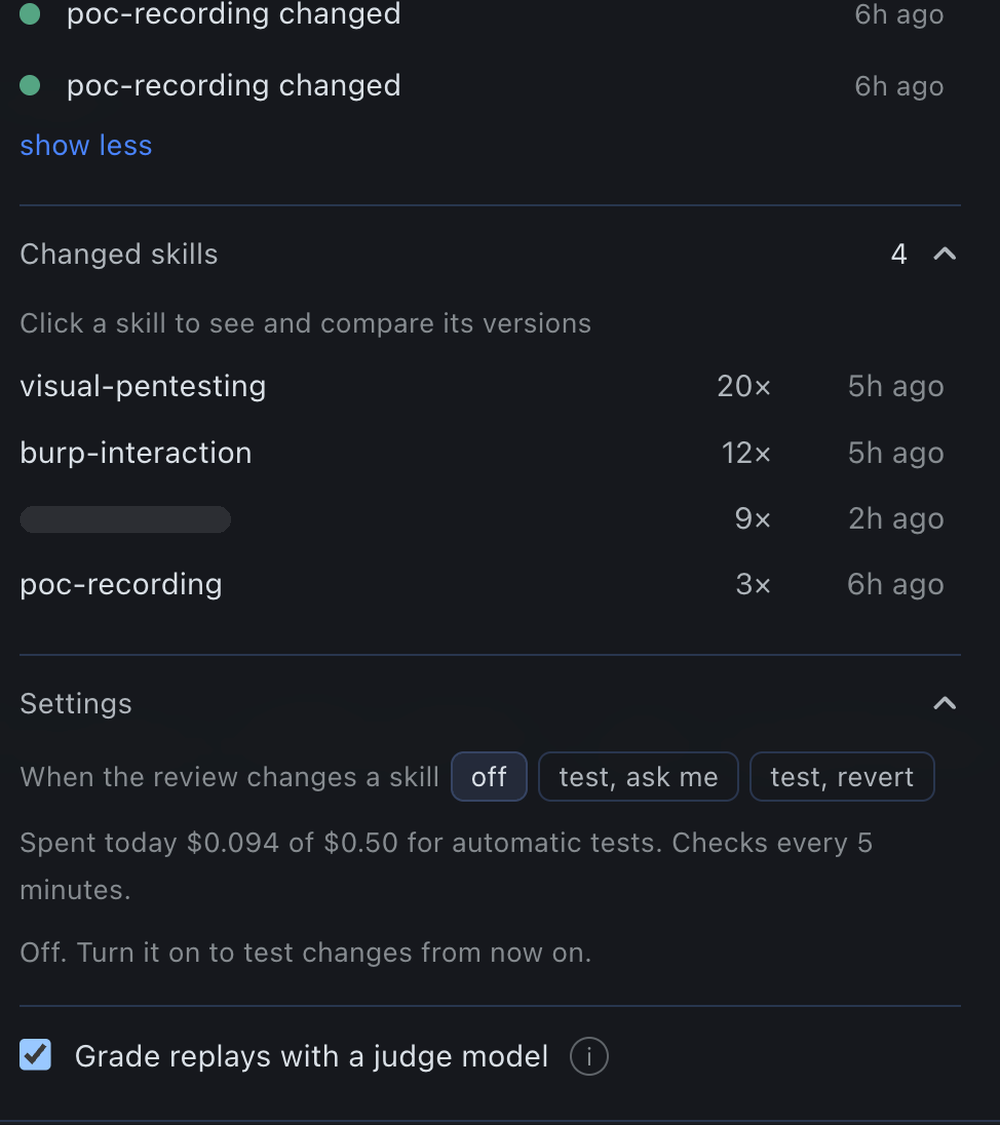
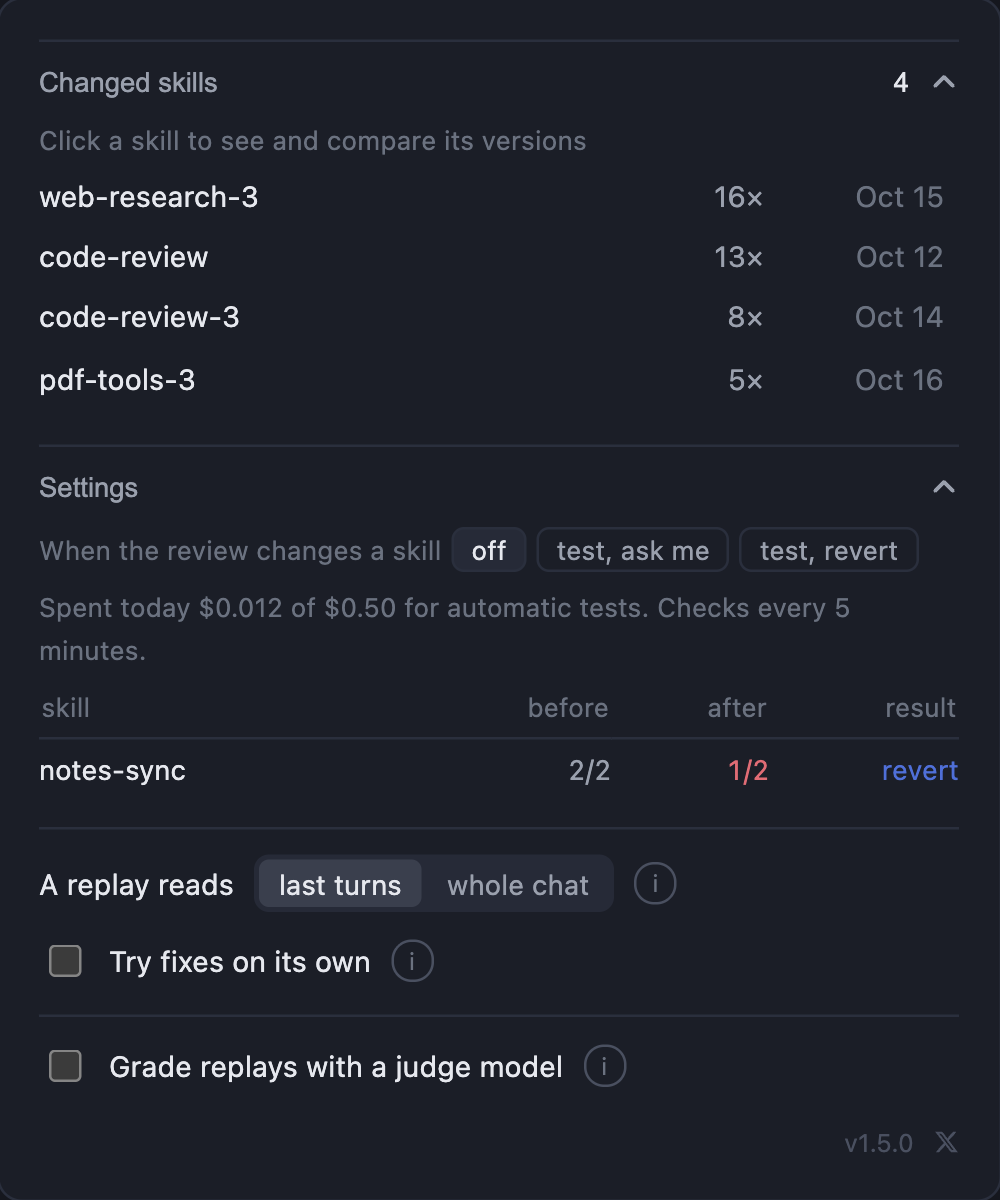
1.5.0

diff --git a/README.md b/README.md
@@ -72,7 +72,9 @@ Evals, model-as-a-judge, and the missing layer for hermes auto-improve (randomly
 - **Cleanup**: archive skills that were never used, saving tokens on every call
 
 <p align="center">
-  <img src="docs/hermetic-aai-settings.png" alt="Changed skills and settings for automatic tests and the judge" width="400">
+  <img src="docs/hermetic-aai-fix.png" alt="A tried skill fix: each test and its rewordings on the current skill and on the fix" width="400">
+  &nbsp;
+  <img src="docs/hermetic-aai-settings.png" alt="Changed skills and settings for automatic tests, fixes and the judge" width="400">
 </p>
 
 ## HDR (harness detection and response)
